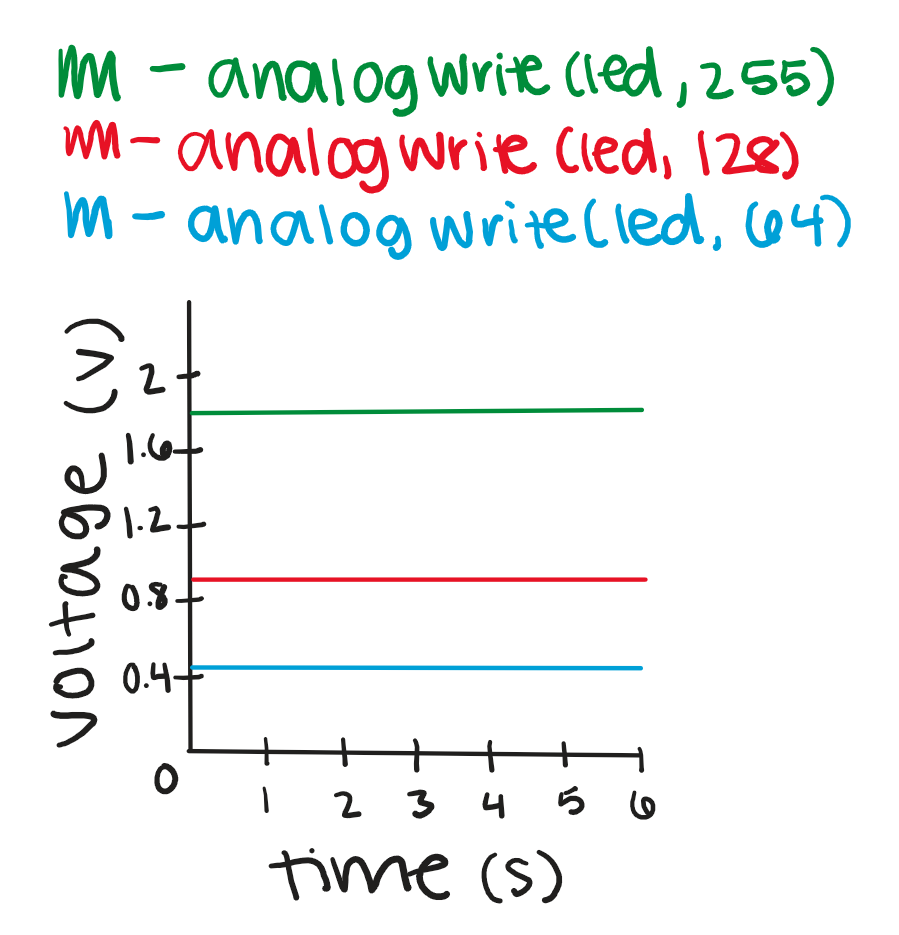
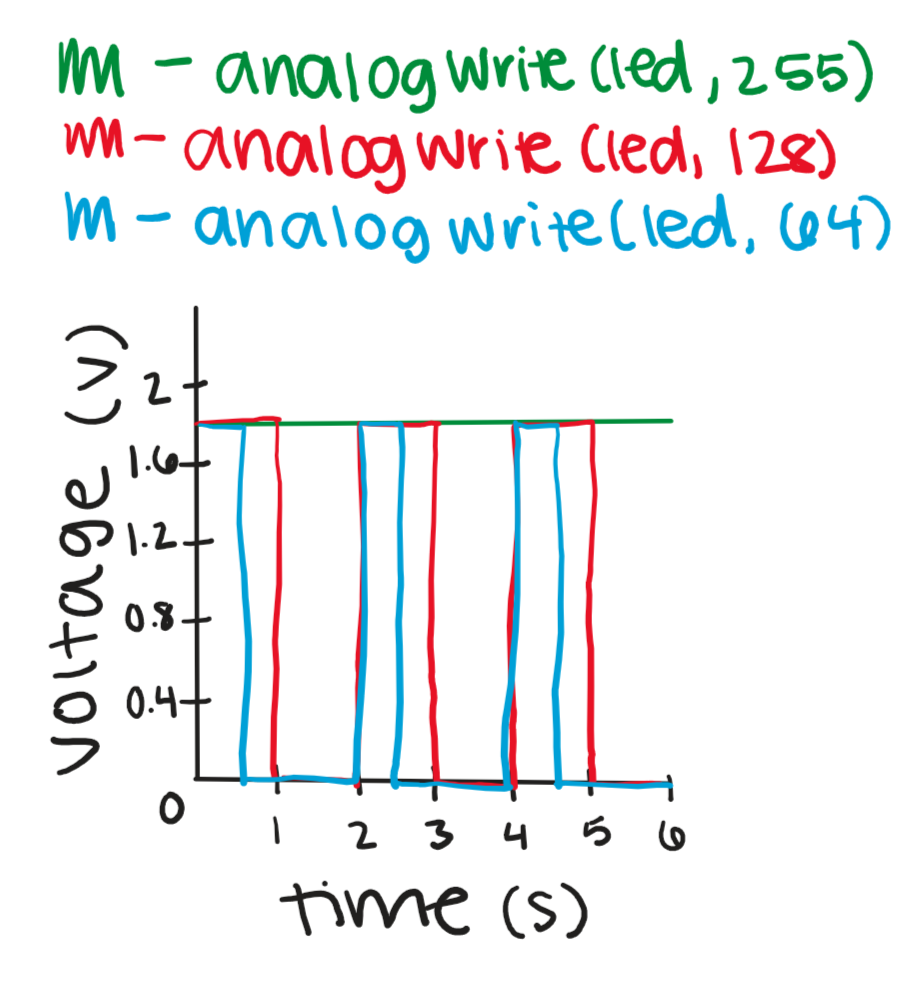
a2

Changed region(s): [[0.0311, 0.3102, 0.7475, 0.9615], [0.0623, 0.031, 0.9655, 0.2791]]

diff --git a/a2.html b/a2.html
@@ -117,7 +117,7 @@ void loop() {
     <h2>questions</h2>
     <ol>
         <li>
-            <p>This graph represents the voltage across a red, yellow, or green LED, which, using the correct resistor, should have about 1.8 V when it is fully on (analogWrite(led, 255)). The voltage using analogWrite(led, 128) should be less than analogWrite(led, 255), and the voltage using analogWrite(led, 64) should be less than both of those.</p>
+            <p>This graph represents the voltage across a red, yellow, or green LED, which, using the correct resistor, should have about 1.8 V the whole time when it is fully on (analogWrite(led, 255), 100% duty cycle). The voltage using analogWrite(led, 128) should be 1.8 V for 50% of the time (50% duty cycle), and the voltage using analogWrite(led, 64) should be 1.8 V for 25% of the time (25% duty cycle).</p>
             <img src="images/a2_5.png">
         </li>
         <br>
